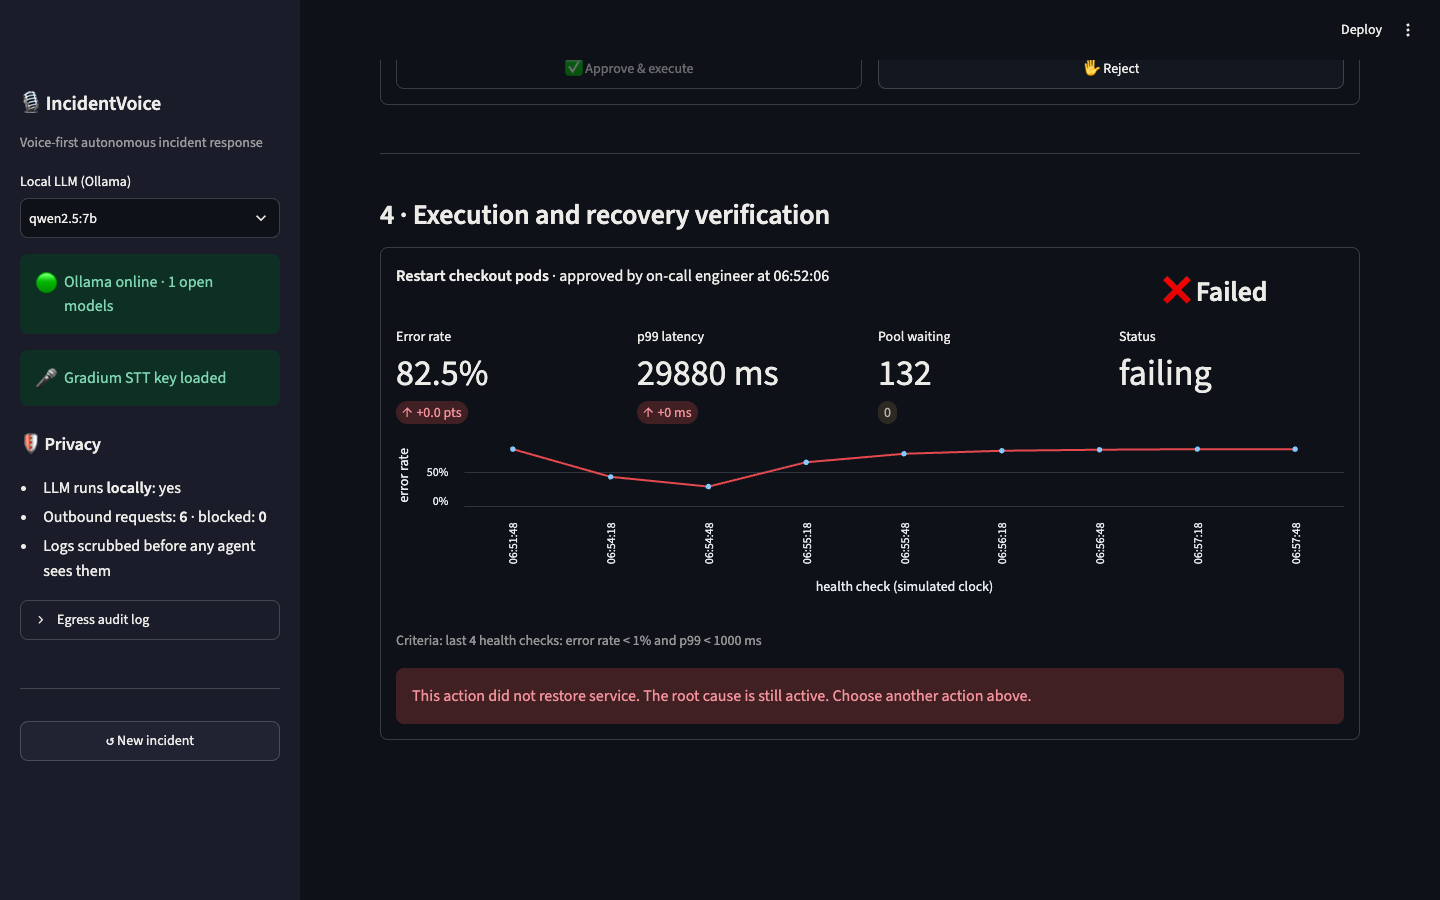
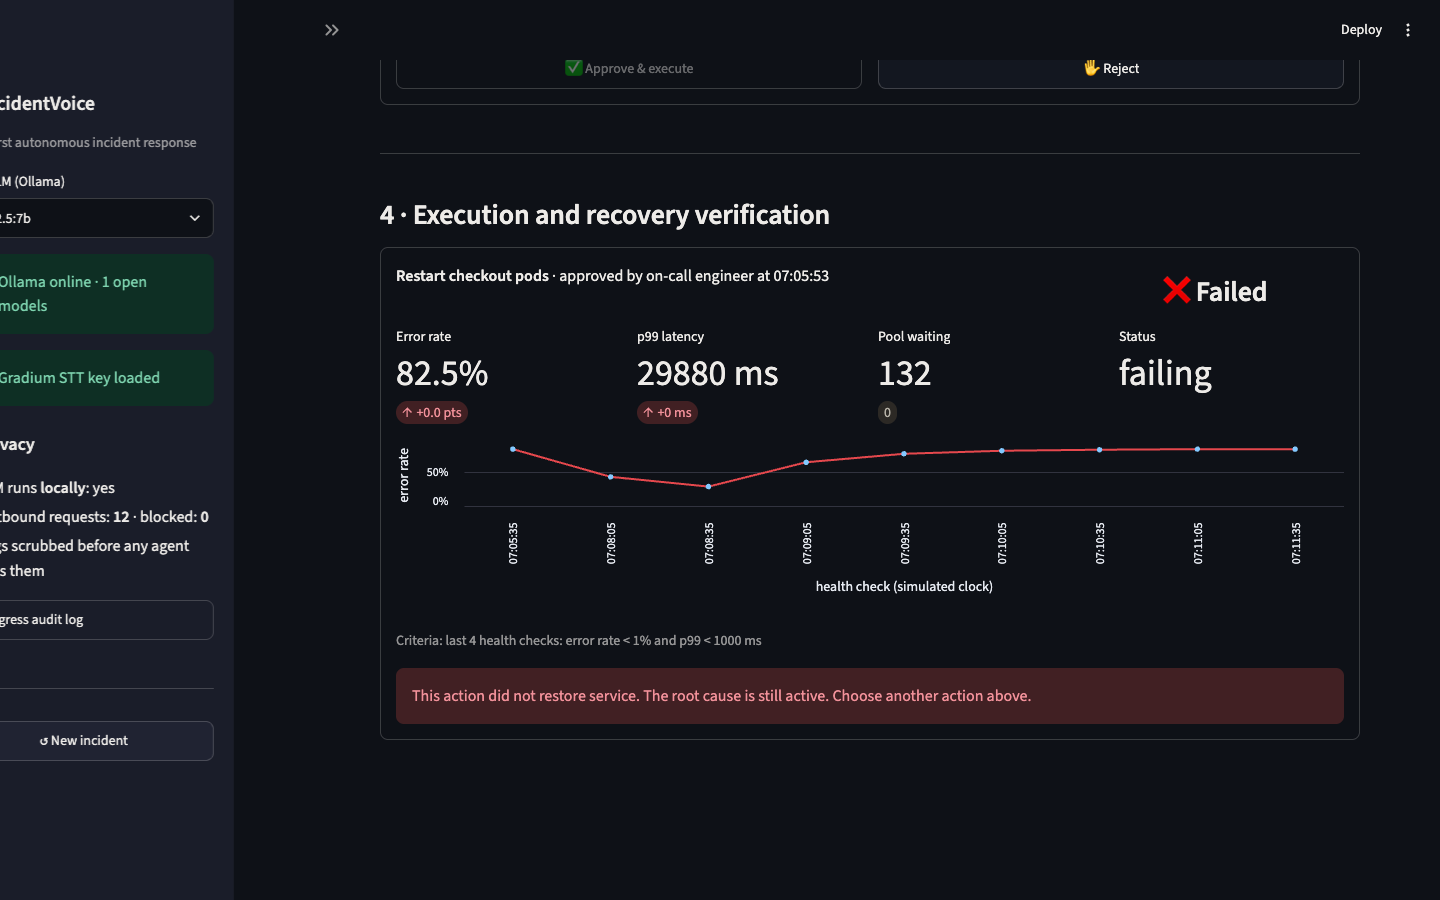
Demo assets with talk-back step (06b_talk_back), sidebar shows STT + TTS

diff --git a/scripts/capture_demo.py b/scripts/capture_demo.py
@@ -168,7 +168,8 @@ def main():
     SHOTS.mkdir(parents=True, exist_ok=True)
     prof = tempfile.mkdtemp()
     chrome = subprocess.Popen([CHROME, "--headless=new", "--remote-debugging-port=9333", f"--user-data-dir={prof}",
-                               f"--window-size={W},{H}", "--hide-scrollbars", "about:blank"],
+                               f"--window-size={W},{H}", "--hide-scrollbars",
+                               "--autoplay-policy=no-user-gesture-required", "about:blank"],
                               stdout=subprocess.DEVNULL, stderr=subprocess.DEVNULL)
     try:
         for _ in range(50):
@@ -245,6 +246,21 @@ def main():
         time.sleep(2)
         d.frame(scroll="4 · Execution", hold=5)
         d.shot("06_recovery_verified", full=False)
+
+        if c.js("[...document.querySelectorAll('button')].some(b => b.innerText.includes('Speak verified summary'))"):
+            d.click("Speak verified summary")  # Gradium TTS talk-back
+            t0 = time.time()
+            while time.time() - t0 < 60 and not c.js("!!document.querySelector('audio')"):
+                d.frame(scroll="#### 🔊")
+                time.sleep(0.5)
+            time.sleep(1.5)
+            d.scroll("🔊 IncidentVoice reports back")
+            d.frame(hold=5)
+            d.shot("06b_talk_back", full=False)
+            sent = c.js("[...document.querySelectorAll('[data-testid=\"stCaptionContainer\"]')].map(x => x.innerText)"
+                        ".find(t => t.includes('Sent to Gradium'))")
+            dur = c.js("document.querySelector('audio')?.duration")
+            print(f"talk-back audio: {dur:.1f}s; text sent: {sent}" if dur else "talk-back: no audio")
 
         d.click("Generate incident report")
         d.wait_text("Executive summary", 300)

diff --git a/app.py b/app.py
@@ -70,7 +70,7 @@ with st.sidebar:
         model = llm.DEFAULT_MODEL
         st.error("Ollama not reachable at " + llm.OLLAMA + ". Agents will use rule-based fallbacks.", icon="🔴")
     if stt.api_key():
-        st.success("Gradium STT key loaded", icon="🎤")
+        st.success("Gradium key loaded: voice in (STT) + voice out (TTS)", icon="🎤")
     else:
         st.warning("GRADIUM_API_KEY not set. Voice input is disabled; type or upload instead.", icon="🎤")
 

diff --git a/docs/SUBMISSION.md b/docs/SUBMISSION.md
@@ -97,4 +97,4 @@ Python · Streamlit · Ollama (Qwen2.5-7B, Llama 3.2-3B) · Gradium STT + TTS (w
 | 1:42 | **Speak verified summary** | IncidentVoice says: "Incident resolved and verified…" Say: "And it talks back, through the same leak gate." |
 | 1:52 | Generate postmortem; sidebar egress log | "The postmortem writes itself. And here is every byte that left the laptop: the voice in and the voice out, nothing else." |
 
-Screenshots: `docs/screenshots/01…08_*.png` (`02a_live_transcript.png` shows Gradium streaming the spoken report). Automated walkthrough GIF: `docs/incidentvoice_demo.gif`.
+Screenshots: `docs/screenshots/01…08_*.png` (`02a_live_transcript.png` shows Gradium streaming the spoken report; `06b_talk_back.png` shows Gradium speaking the verified summary). Automated walkthrough GIF: `docs/incidentvoice_demo.gif`.

diff --git a/README.md b/README.md
@@ -19,9 +19,9 @@ verification, right fix verified (error rate 82% → 0%) · 21 tests, fully offl
 
 ![demo](docs/incidentvoice_demo.gif)
 
-| Live voice transcript (Gradium) | Root cause and evidence | Verified recovery |
+| Voice in: live transcript (Gradium STT) | Wrong fix caught, right fix verified | Voice out: spoken summary (Gradium TTS) |
 |---|---|---|
-| ![](docs/screenshots/02a_live_transcript.png) | ![](docs/screenshots/04_approval_gate.png) | ![](docs/screenshots/06_recovery_verified.png) |
+| ![](docs/screenshots/02a_live_transcript.png) | ![](docs/screenshots/06_recovery_verified.png) | ![](docs/screenshots/06b_talk_back.png) |
 
 ## Quick start
 
